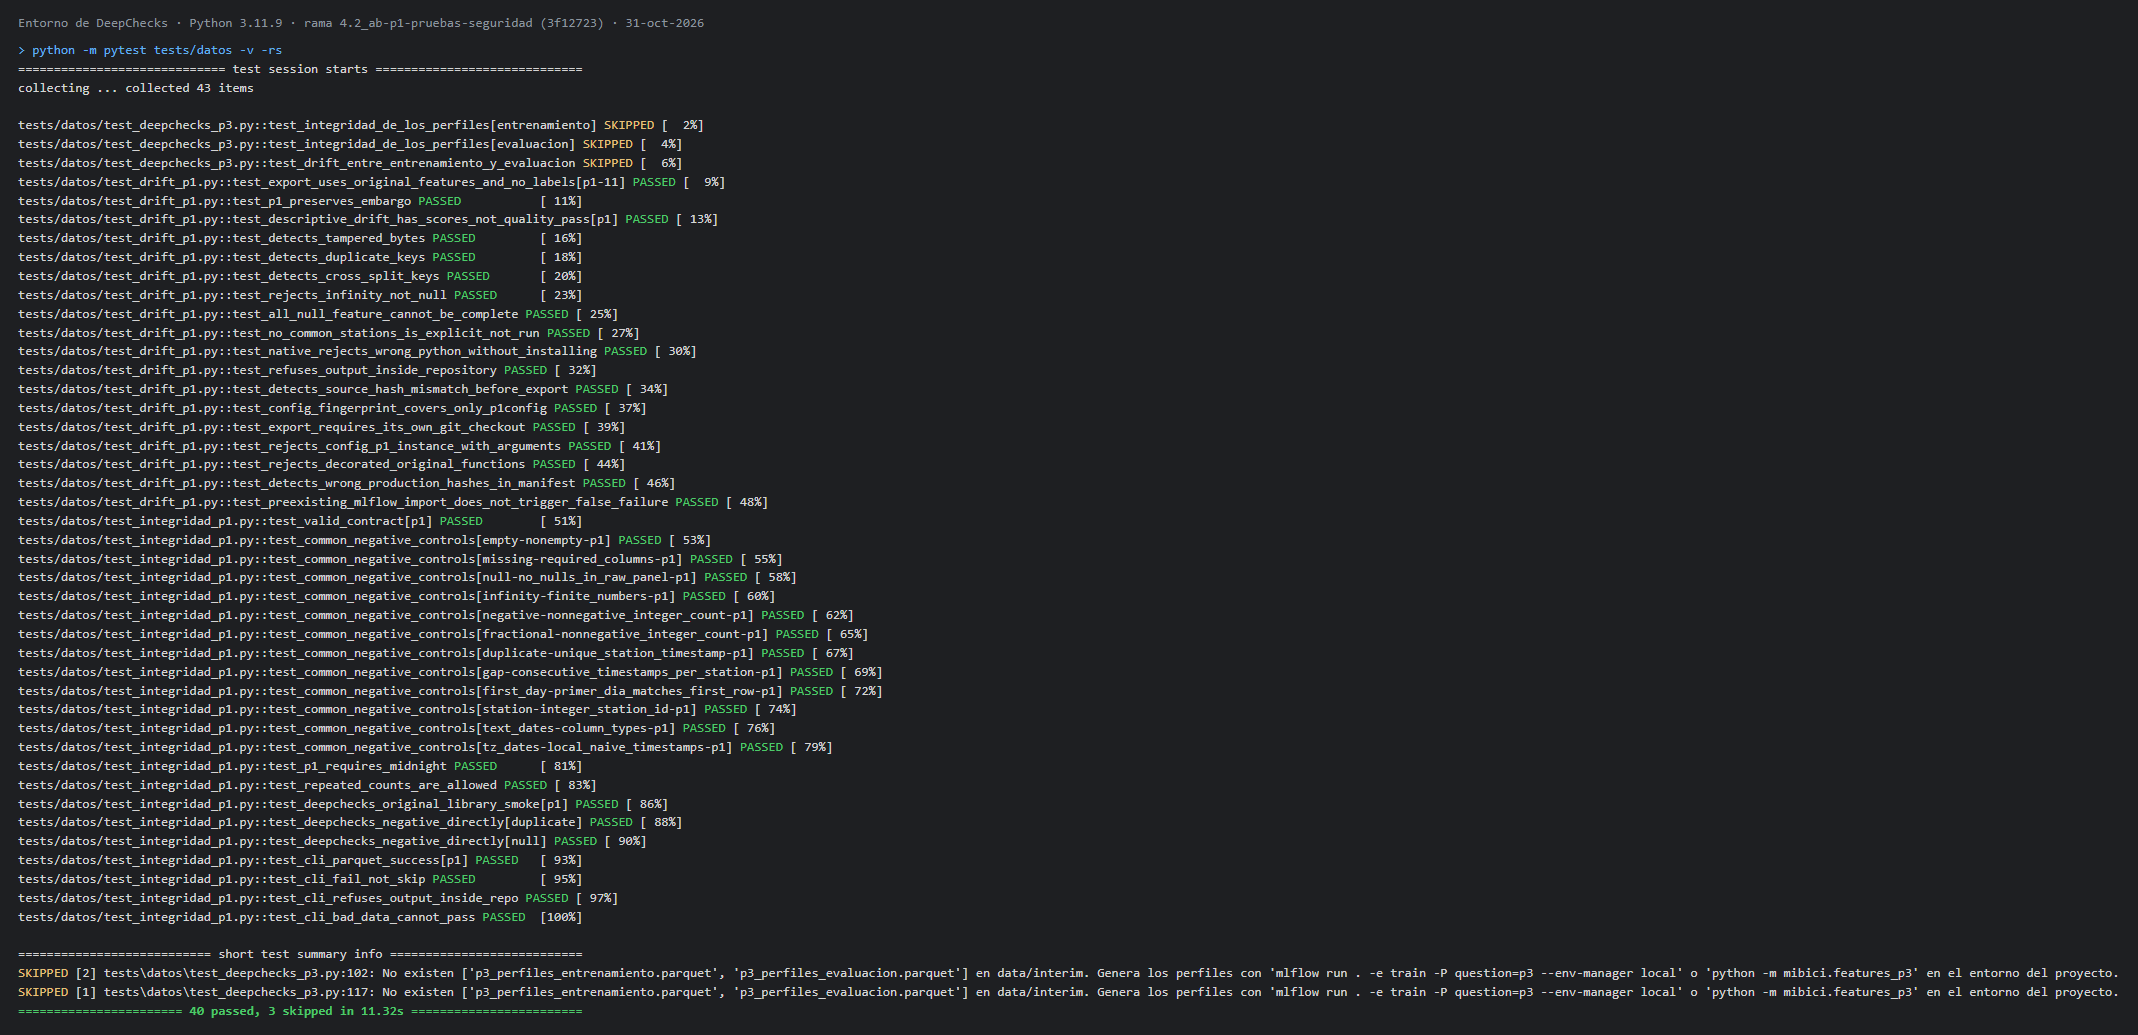
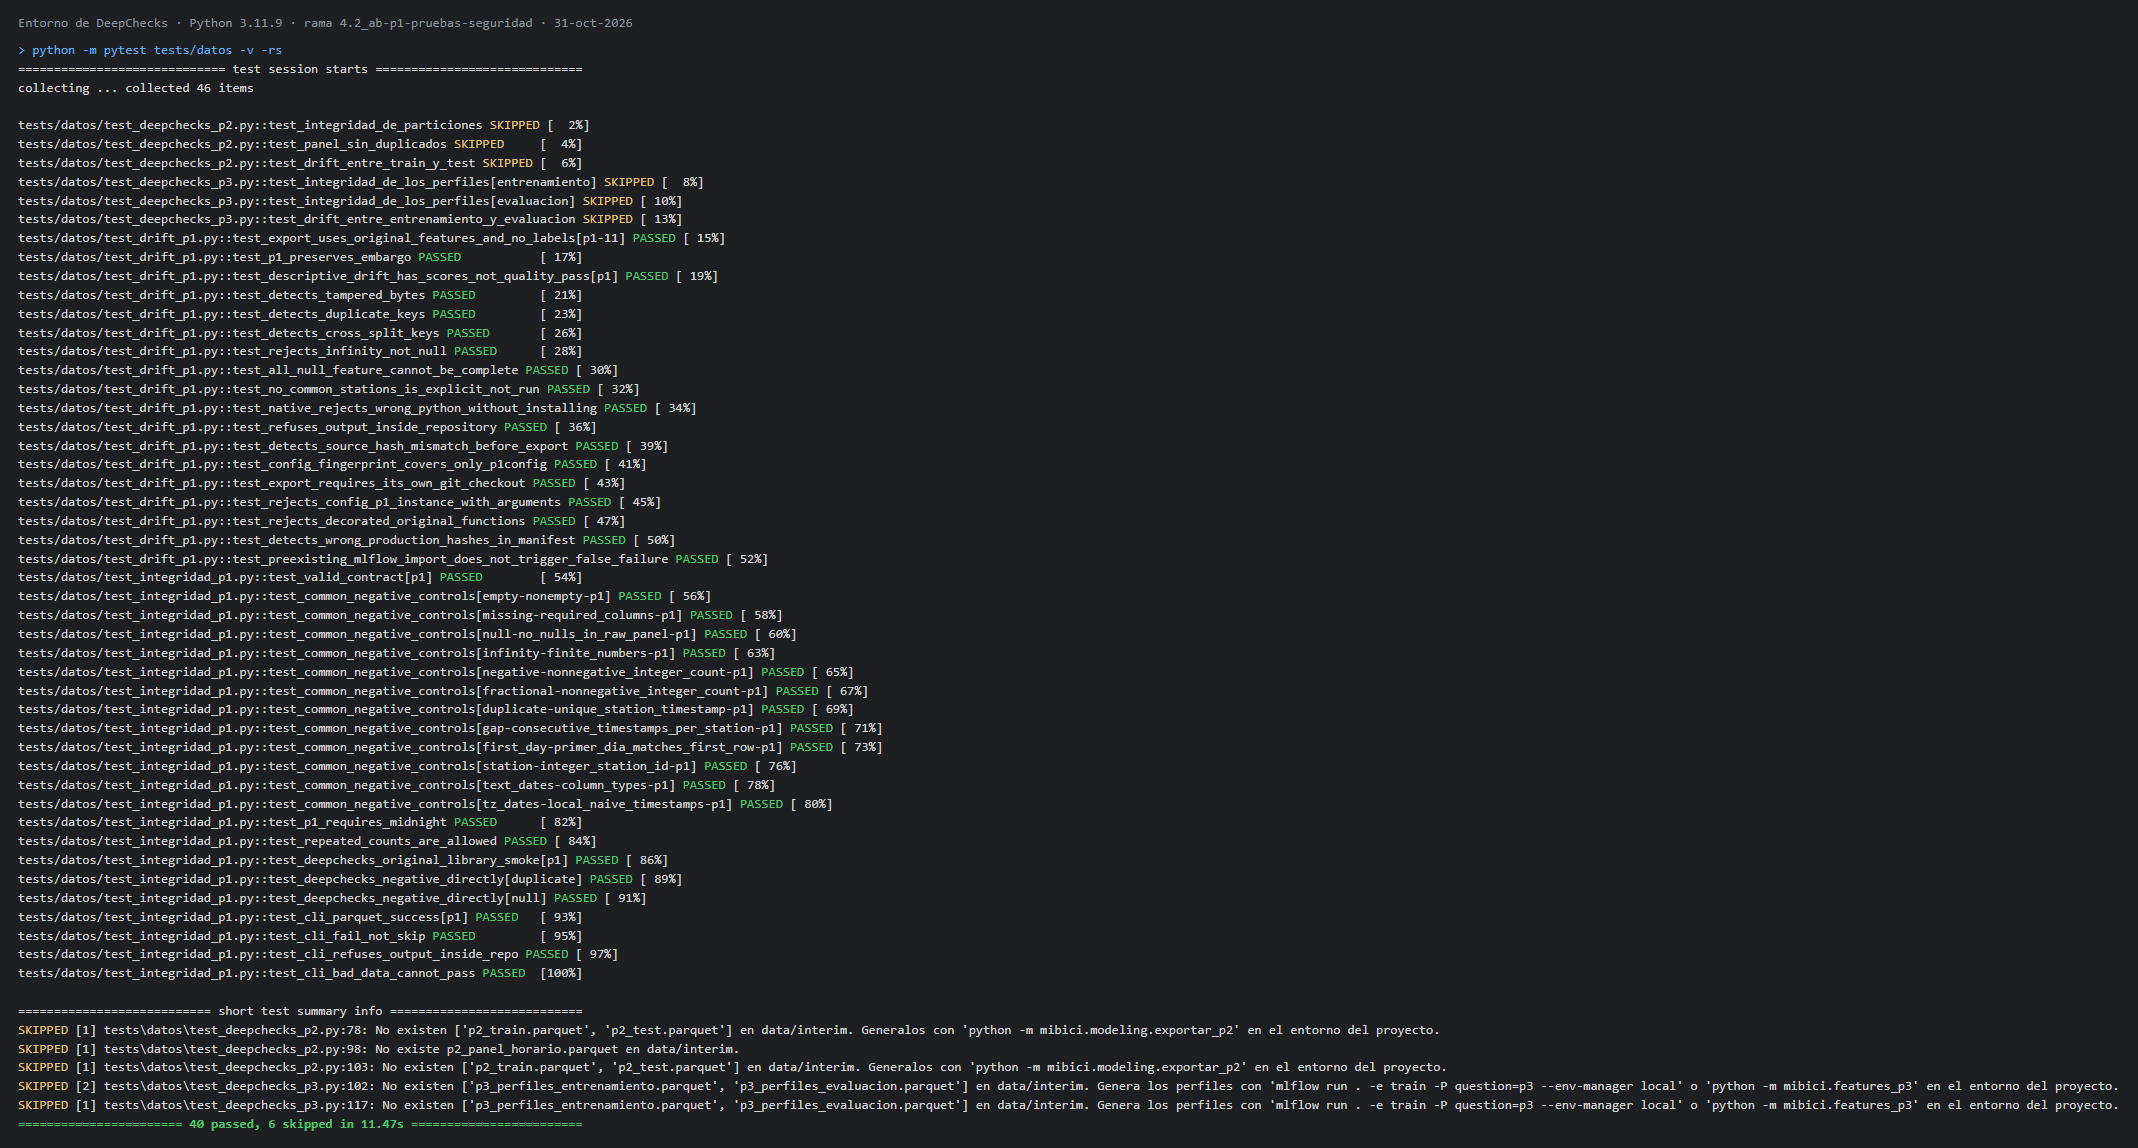
docs(p1): resultados de las pruebas tras integrar main con #13 y #14
La suite completa pasa a 239 passed y 4 skipped (se suma test_deepchecks_p2.py)
y tests/datos en Python 3.11 a 40 passed y 6 skipped (3 de P2 y 3 de P3, sin
sus tablas). Se actualizan las capturas de pytest. La corrida con el panel real
de 3f12723 se conserva: no cambiaron los archivos que verifica el exportador.

Changed region(s): [[0.0, 0.0, 0.9878, 0.9894]]

diff --git a/README.md b/README.md
@@ -184,10 +184,12 @@ Comandos, decisiones y límites en `docs/repetibilidad_p1.md`, `docs/validacion_
 | Prueba | Entorno | Datos | Resultado |
 |---|---|---|---|
 | `tests/modeling/test_reproducibilidad_p1.py`: dos ajustes de cada candidata con la semilla de `CONFIG_P1` dan las mismas predicciones y el mismo MAE, sin modificar los datos de entrada y con el embargo D-2 | proyecto (Python 3.14) | panel sintético | 3 passed |
-| `python -m pytest` (suite completa) | proyecto (Python 3.14) | sintéticos | 223 passed, 3 skipped: los tres módulos de `tests/datos` (los dos de P1 porque no es Python 3.11; el de P3 porque falta deepchecks) |
-| `tests/datos/test_integridad_p1.py` y `test_drift_p1.py`: contrato del panel, `PercentOfNulls` y `DataDuplicates`, exportación de variables y drift, con controles negativos | DeepChecks (Python 3.11) | paneles fabricados | 40 passed (`python -m pytest tests/datos -v` también salta las 3 de P3 si faltan sus tablas) |
+| `python -m pytest` (suite completa) | proyecto (Python 3.14) | sintéticos | 239 passed, 4 skipped: los cuatro módulos de `tests/datos` (los dos de P1 porque no es Python 3.11; los de P2 y P3 porque falta deepchecks) |
+| `tests/datos/test_integridad_p1.py` y `test_drift_p1.py`: contrato del panel, `PercentOfNulls` y `DataDuplicates`, exportación de variables y drift, con controles negativos | DeepChecks (Python 3.11) | paneles fabricados | 40 passed (`python -m pytest tests/datos -v` también salta las 3 de P2 y las 3 de P3 si faltan sus tablas) |
 | Integridad del panel real: contrato y los dos checks de DeepChecks (`scripts/p1/validar_panel_p1.py`) | DeepChecks (Python 3.11) | `p1_panel_diario.parquet` del 18 de octubre: 245,185 filas, 472 estaciones | PASS |
 | Exportación y drift reales (`exportar_features_p1.py` en el entorno del proyecto, `medir_drift_p1.py` en el de DeepChecks) | ambos | el mismo panel | 167,177 filas de entrenamiento y 62,426 de prueba, 2 días de separación; drift sobre una muestra determinista de 100,000 filas de entrenamiento (semilla 29) y la prueba completa: KS máximo `lag_28` = 0.073 con todas las estaciones y `media_28d` = 0.037 con las 370 presentes en ambos periodos; Cramér V máximo `festivo` = 0.053 y 0.054 |
+
+Las pruebas se corrieron después de integrar main con #13 y #14. La corrida con el panel real es del commit `3f12723`, anterior a esa integración; los archivos que verifica el exportador (`P1Config` y `CONFIG_P1`, `features.py` y `train_p1.py`) no cambiaron, así que no se repitió.
 
 Las pruebas con datos sintéticos o fabricados comprueban el código, no la calidad del panel real; ésta se revisa con los scripts. El drift se mide y se reporta sin umbral de aprobación. Quedan sin prueba automática la exportación `native` (en el entorno del proyecto se omite `tests/datos`; la cubre la corrida con el panel real) y la búsqueda completa de hiperparámetros: la prueba de repetibilidad usa hiperparámetros pequeños fijos, y con la configuración de P1 los candidatos son deterministas, así que muestra repetibilidad y que la semilla llega al modelo, no que la semilla cambie el resultado.
 

diff --git a/docs/validacion_datos_p1.md b/docs/validacion_datos_p1.md
@@ -2,8 +2,8 @@
 
 ## Dependencia y separación de entornos
 
-Estos auxiliares usan el entorno de `requirements-deepchecks.txt`, que agrega el PR #13
-(head `2438e1b207564fc1283a6cf98920c3499c90c8ed`). No se duplica ni se cambia esa
+Estos auxiliares usan el entorno de `requirements-deepchecks.txt`, que agregó el PR #13
+(head `2438e1b207564fc1283a6cf98920c3499c90c8ed`, ya en main). No se duplica ni se cambia esa
 infraestructura, ni `requirements.txt` o el entorno principal.
 
 - DeepChecks: Python 3.11; deepchecks 0.19.1, numpy 1.26.4, pandas 2.3.3,
@@ -122,6 +122,10 @@ en el entorno principal Python 3.14.8. Checkout: main `d2bec05` con el PR #13
   370 estaciones comunes, 101 sólo test, una sólo train.
 - La exportación `isolated-source` en Python 3.11 del mismo panel produjo las mismas
   tablas (comparadas con `DataFrame.equals`) y las mismas 22 puntuaciones de drift.
+- Tras integrar main `f164de8` (#13 y #14 fusionados): QA sintética **40 passed**; las
+  6 omitidas son de P2 y P3, porque no están sus tablas en `data/interim`. La huella de
+  `P1Config` y `CONFIG_P1` y los hashes de `features.py` y `train_p1.py` no cambian, así
+  que la corrida con el panel real de arriba sigue vigente y no se repitió.
 
 El panel fue generado el 18 de octubre, no regenerado con main actual.
 Los JSON y logs registran el alcance; no se versionan Parquets ni HTML con datos.

diff --git a/docs/repetibilidad_p1.md b/docs/repetibilidad_p1.md
@@ -43,6 +43,9 @@ Windows 11, entorno principal Python 3.14.8, desde la raíz del checkout:
   **3 passed**; suite completa **223 passed, 3 skipped**. Las tres omisiones son los
   módulos de DeepChecks (`test_deepchecks_p3.py`, `test_drift_p1.py`,
   `test_integridad_p1.py`), que se saltan solos fuera de su entorno Python 3.11.
+- Tras integrar main `f164de8` (#13 y #14 fusionados): este test **3 passed**; suite
+  completa **239 passed, 4 skipped**. La cuarta omisión es `test_deepchecks_p2.py`, que
+  agrega el #14 y también requiere el entorno de DeepChecks.
 
 `mibici.features` y `mibici.modeling.train_p1` se importaron desde el checkout probado.
 No se requieren cambios de producción, dependencias nuevas o el PR #13 para este test.
